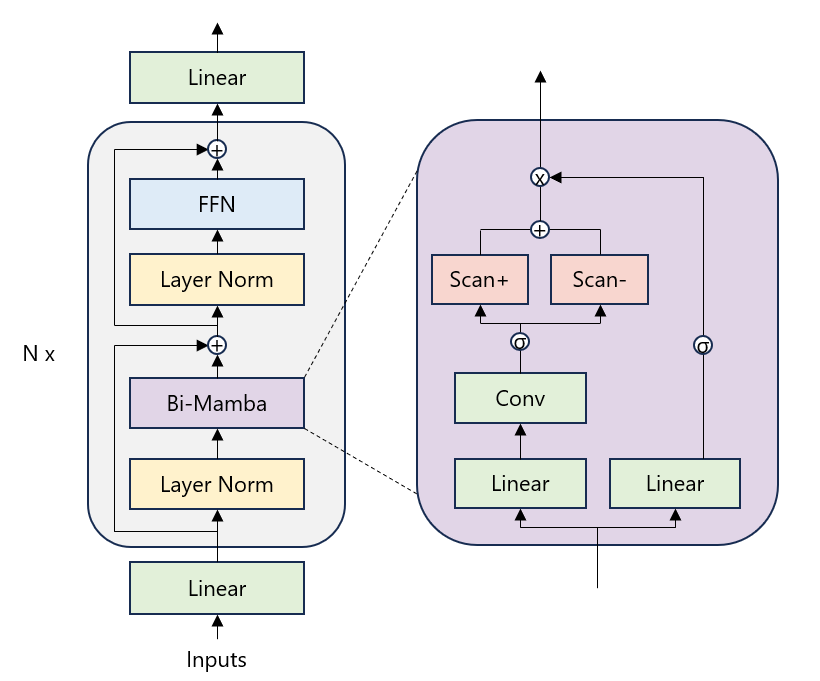
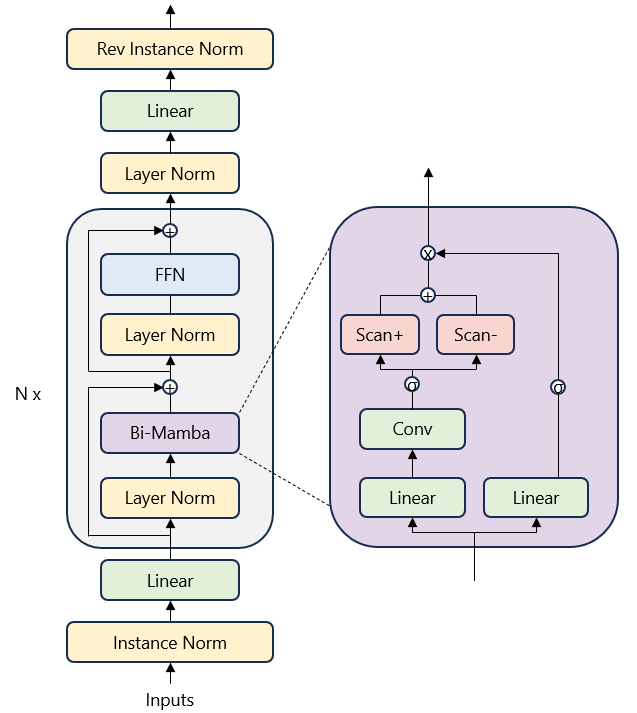
update results

diff --git a/README.md b/README.md
@@ -16,7 +16,7 @@ The repo implements a Mamba-empowered model for multivariate time series forecas
 
 TimesMamba consists of the following components:
 
-- A reversible instance normalization layer to normalize individual series in a batch. (It is omitted in the diagram below.)
+- A reversible instance normalization layer to normalize individual series.
 - A linear embedding layer that projects individual series into the embedding space.
 - Mamba blocks that capture the correlations among the series.
 
